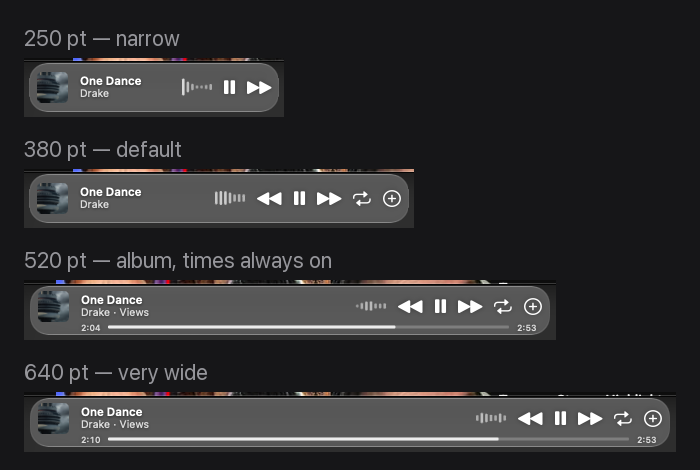
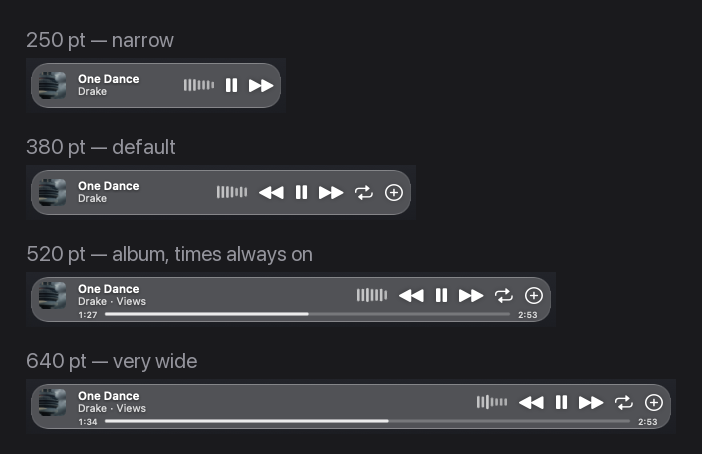
Bildschirmfotos neu, mit ruhigem Hintergrund
Auf den alten Aufnahmen lief ein Video hinter dem Dock - das gehört nicht in
ein README. Alle Bilder sind neu aufgenommen, mit einer gleichmäßigen dunklen
Fläche hinter dem Dock statt zufälligem Fensterinhalt, und mit derselben
Wiedergabe in jedem Bild.

Neu dabei: der schmale Liedtext zeigt jetzt tatsächlich eine umbrechende
Zeile, nicht eine Instrumentalpause; Menü und Playlist-Auswahl stehen frei
statt halb über fremdem Fensterinhalt.

diff --git a/README.md b/README.md
@@ -38,8 +38,7 @@ but tied to the content — each one brings something visible.
 
 ![Width steps](docs/widths.png)
 
-**Lyrics.** Only the current line, wrapped across two when it does not fit,
-visibly truncated when even that is not enough.
+**Lyrics.** Only the current line, wrapped across two when it does not fit.
 
 ![Lyrics](docs/lyrics.png)
 
